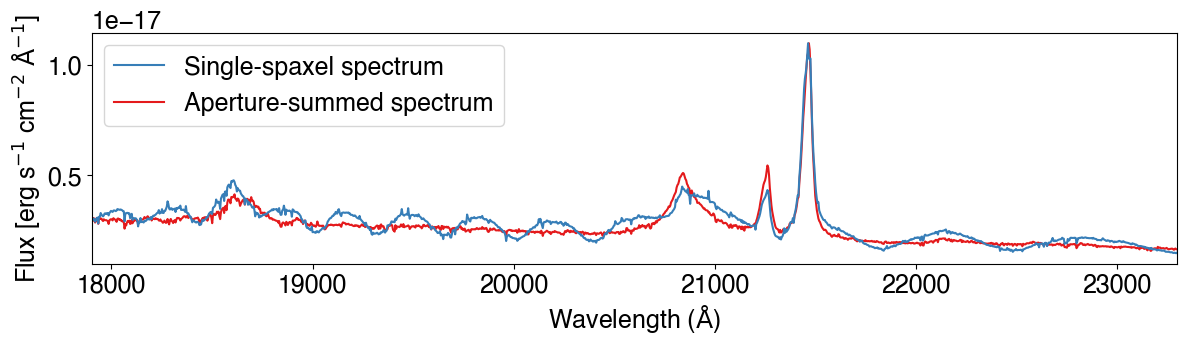
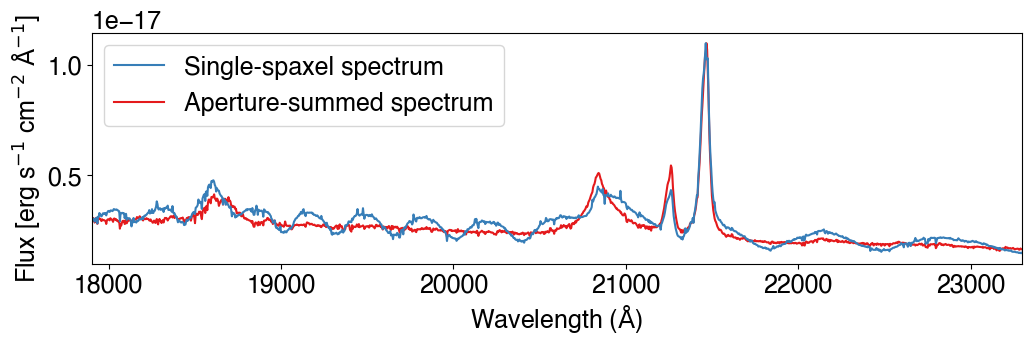
Adjust figure sizes in WiggleCleaner for improved layout

diff --git a/raccoon/wiggle_cleaner.py b/raccoon/wiggle_cleaner.py
@@ -940,7 +940,7 @@ class WiggleCleaner(object):
         :rtype: None
         """
 
-        fig = plt.figure(figsize=(14, 5))
+        fig = plt.figure(figsize=(12, 5))
         gs = GridSpec(4, 1, height_ratios=[3, 0.05, 1, 0.05], hspace=0)
         ax = fig.add_subplot(gs[0])
         ax.plot(
@@ -1129,7 +1129,7 @@ class WiggleCleaner(object):
         :return: None
         :rtype: None
         """
-        fig = plt.figure(figsize=(14, 2.5))
+        fig = plt.figure(figsize=(12, 2.5))
         ax = fig.add_subplot(111)
 
         ax.errorbar(

diff --git a/paper/paper.md b/paper/paper.md
@@ -41,23 +41,23 @@ Since the wiggles in the single-spaxel spectra in the reduced JWST NIRSpec datac
 
 In `raccoon`, the wiggle is modeled as a sinusoidal chirp function
 $$ 
-    W(\lambda) = 1 + A(\lambda) \left[ \sin \phi(\lambda) + a_1 \sin^2 \phi (\lambda) + a_2 \sin(3\phi (\lambda)) \right], \label{eq:wiggle} 
+    W(\lambda) = 1 + A(\lambda) \left[ \sin \phi(\lambda) + a_1 \sin^2 \phi (\lambda) + a_2 \sin(3\phi (\lambda)) \right], \tag{1}\label{eq:wiggle} 
 $$
 where $A(\lambda)$ is the wavelength-dependent amplitude and $\phi (\lambda) = \lambda\,k(\lambda) + \phi_0$ is the phase that depends on a wavelength-dependent wavenumber $k(\lambda)$. The wiggle's peaks and troughs can be asymmetrically and symmetrically sharpened (or de-sharpened) by varying the $a_1$ and $a_2$ parameters, respectively.
 
 Given this parametrization for the wiggle, a single-spaxel spectrum $D(\lambda)$ is modeled with
 $$ 
-    M (\lambda) = W(\lambda) \, T(\lambda), \label{eq:model} 
+    M (\lambda) = W(\lambda) \, T(\lambda), \tag{2}\label{eq:model} 
 $$
 where $T(\lambda)$ is a template for the correct spectrum devoid of the wiggles. In `raccoon`, this template is constructed based on the circular-aperture-summed spectrum $C(\lambda)$. The template can also optionally include a spectrum $S(\lambda)$ summed from a shell or annulus centered on the corresponding spaxel, following @Dumont25. Including the shell-summed spectrum in the template can account for changes in the line shape between the single-spaxel spectrum and the aperture-summed one, for example, in the case of lines broadened by stellar kinematics that can vary across the galaxy [@Dumont25]. The aperture radius and the inner and outer radii of the shell are to be adjusted by the user, as the appropriate values can depend on the source morphology and the astronomical scene. The template is constructed as
 $$ 
-    T(\lambda) = c_1\,C(\lambda) + c_2 \, S(\lambda) + c_3 \,\lambda^b + \sum_{n=0}^N p_n\, \lambda^n ,  \label{eq:template} 
+    T(\lambda) = c_1\,C(\lambda) + c_2 \, S(\lambda) + c_3 \,\lambda^b + \sum_{n=0}^N p_n\, \lambda^n ,  \tag{3}\label{eq:template} 
 $$
 where $c_1,c_2, c_3, p_0, \dots, p_N$ are linear coefficients. Here, the power-law plus polynomial term (i.e., $c_3 \,\lambda^b + \sum_{n=0}^N p_n\, \lambda^n$) on the right-hand side models the difference in the continuum between the single-spaxel spectrum and $c_1\,C(\lambda) + c_2 \, S(\lambda)$.
 
 The functions $A(\lambda)$ and $k(\lambda)$ are modeled with B-splines, with the number of knots adjustable by the user. `raccoon` provides functionality for the user to determine the appropriate number of knots using model selection criteria such as the Bayesian information criterion (BIC) or the minimum *a posteriori* chi-squared metric ($\chi^2_{\rm MAP}$). The best-fit values for the linear coefficients (i.e., $c_1, c_2, c_3, p_0, \dots, p_N$) and non-linear parameters (i.e., $a_1$, $a_2$, $b$ and the coefficients of the B-spline basis functions) are determined by minimizing the chi-squared quantity
 $$ 
-    \chi^2 = \sum_{i} \frac{(D_i - M_i)^2}{\sigma_i^2}, \label{eq:chisquare} 
+    \chi^2 = \sum_{i} \frac{(D_i - M_i)^2}{\sigma_i^2}, \tag{4}\label{eq:chisquare} 
 $$
 where the index $i$ runs across the wavelength pixels and $\sigma_{i}$ is the associated noise level. \autoref{fig:full-fit-example} illustrates an example of the fitted model to a given spectrum (of an AGN). In this example, `raccoon`'s robust performance is demonstrated in fitting the given spectrum while modeling the wiggle signal (\autoref{fig:wiggle-model-example}). The user can mask out regions of the spectrum that have strong features potentially impacting the quality of the fit, or optionally adopt outlier rejection in the fit using the false discovery rate method [@Benjamini95] or sigma-clipping.
 
